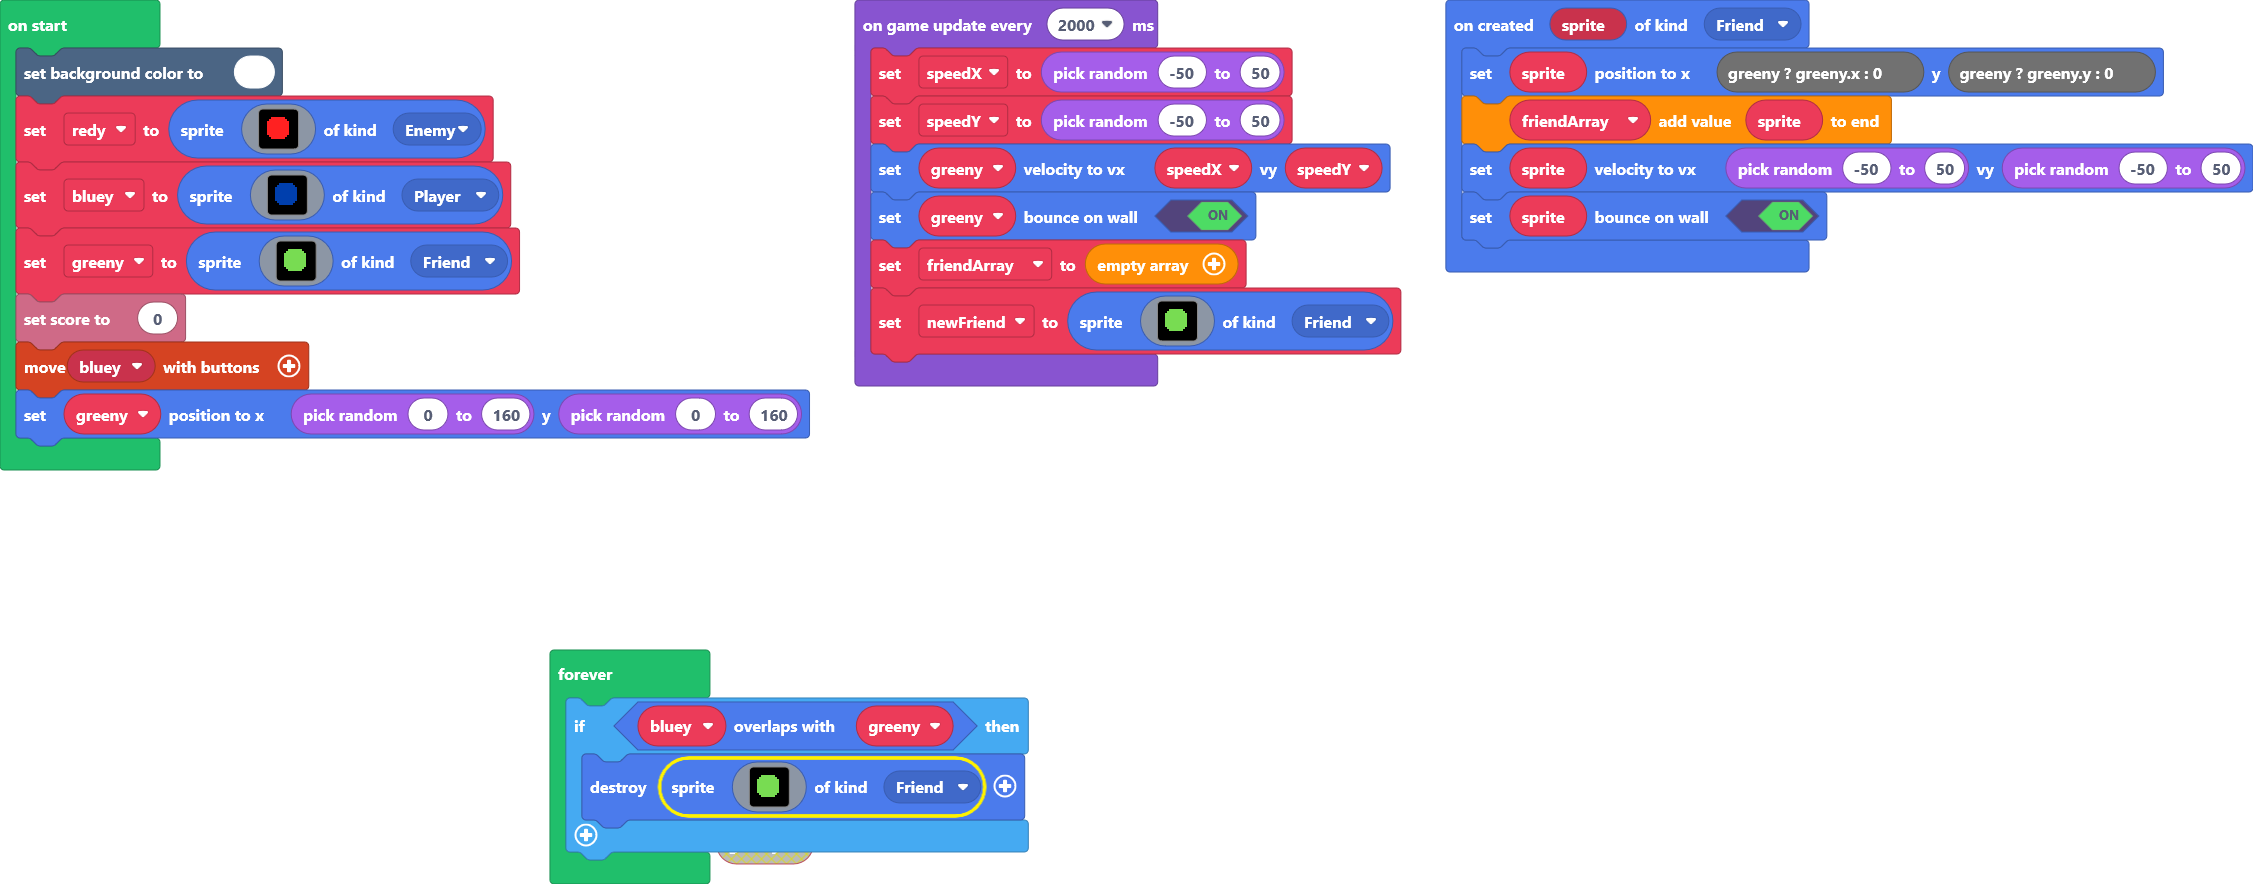
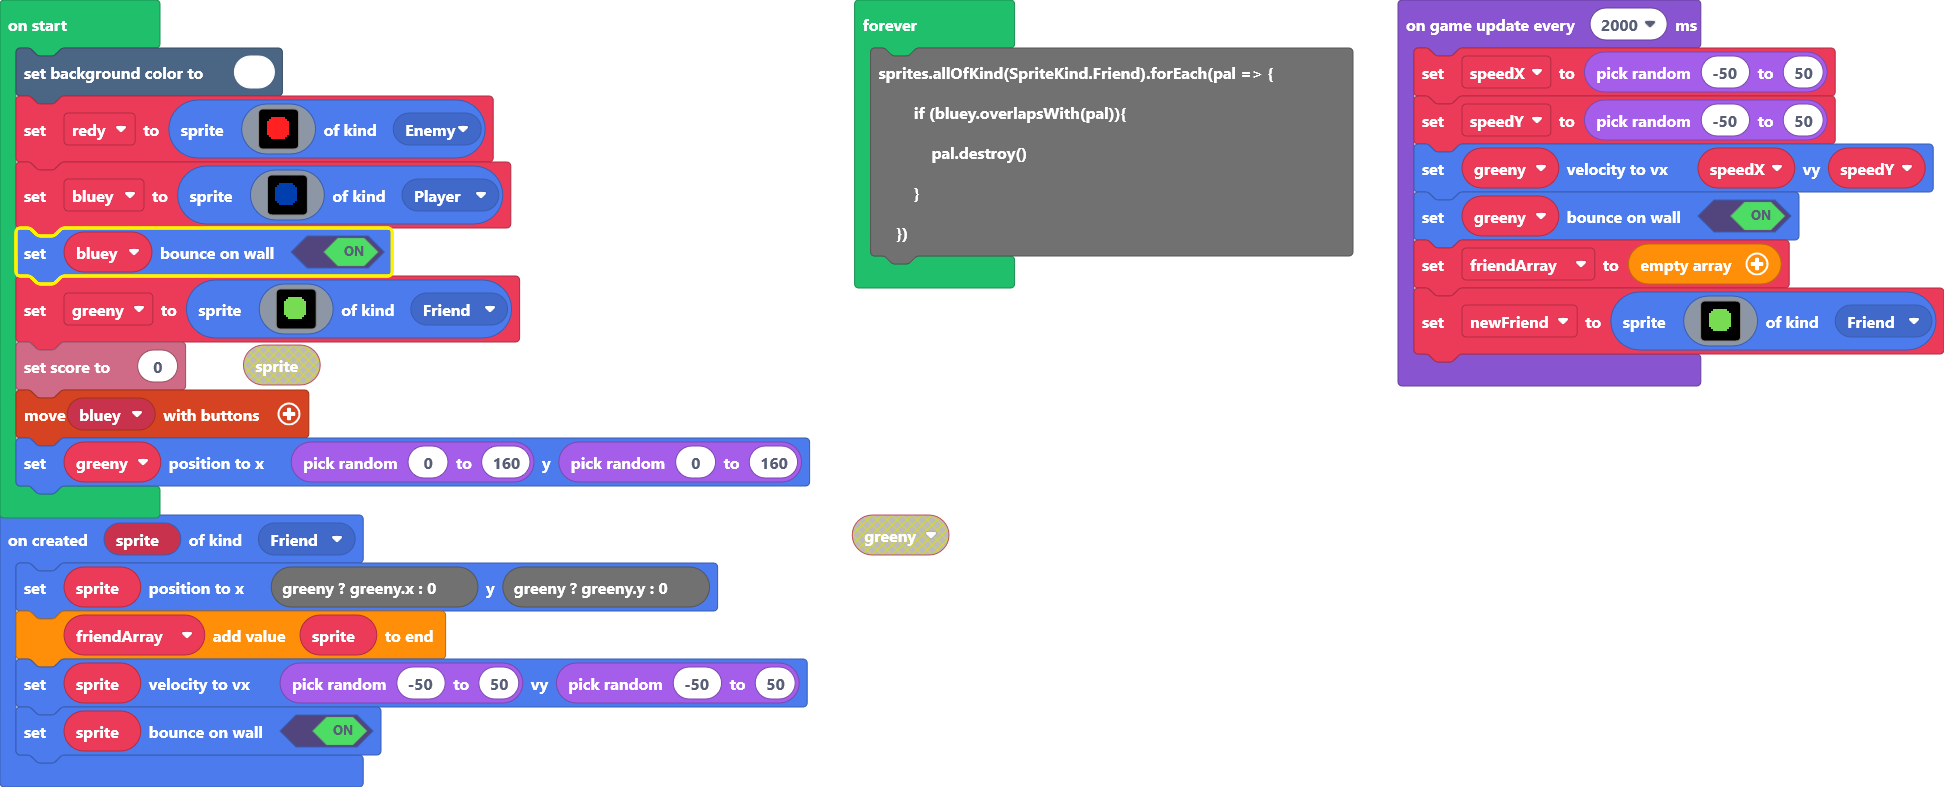
eat now have score

diff --git a/main.ts b/main.ts
@@ -14,6 +14,7 @@ let friendArray: Sprite[] = []
 scene.setBackgroundColor(1)
 let redy = sprites.create(assets.image`enemy`, SpriteKind.Enemy)
 let bluey = sprites.create(assets.image`player`, SpriteKind.Player)
+bluey.setBounceOnWall(true)
 let greeny = sprites.create(assets.image`friend`, SpriteKind.Friend)
 info.setScore(0)
 controller.moveSprite(bluey)
@@ -30,6 +31,7 @@ forever(function () {
     sprites.allOfKind(SpriteKind.Friend).forEach(pal => {
         if (bluey.overlapsWith(pal)){
             pal.destroy()
+            info.changeScoreBy(1)
         }
     })
 })
